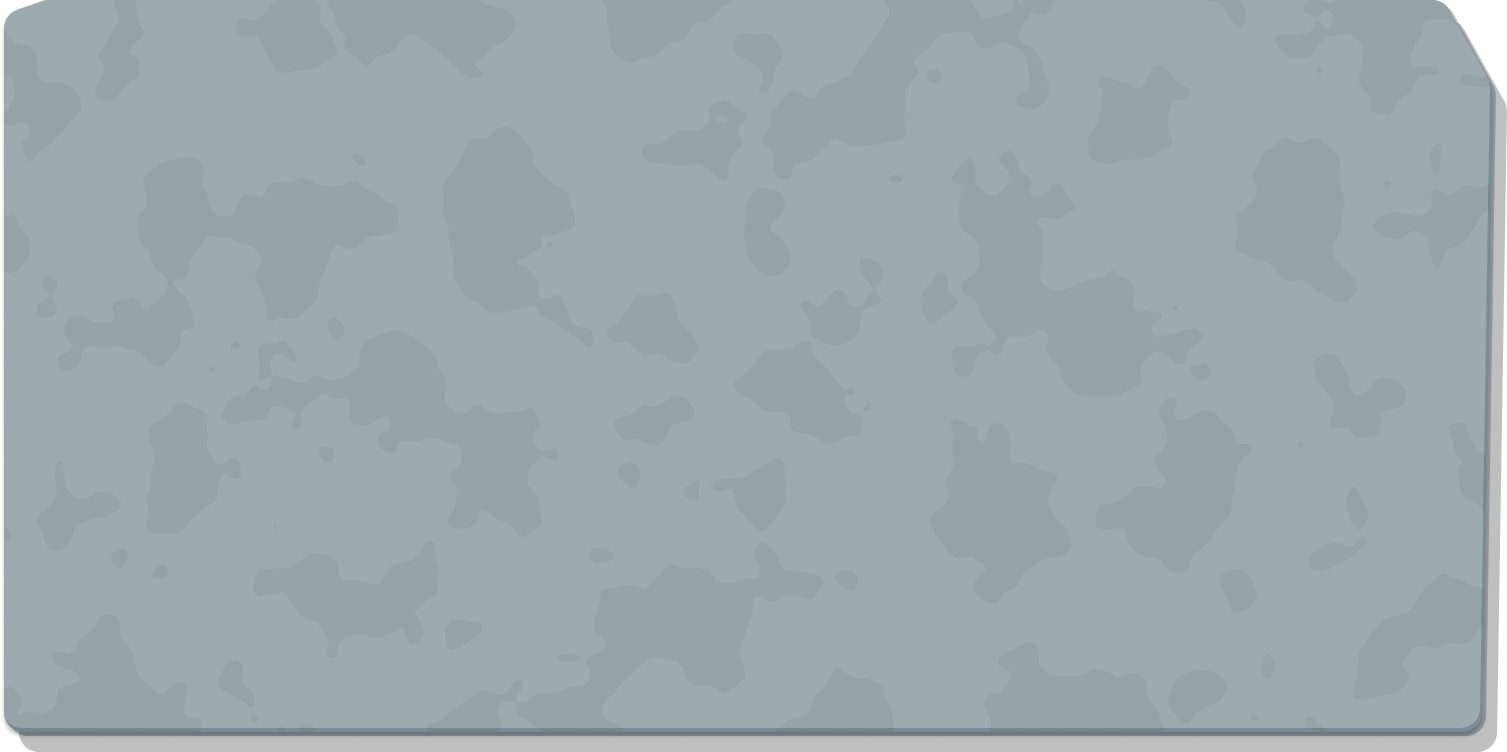
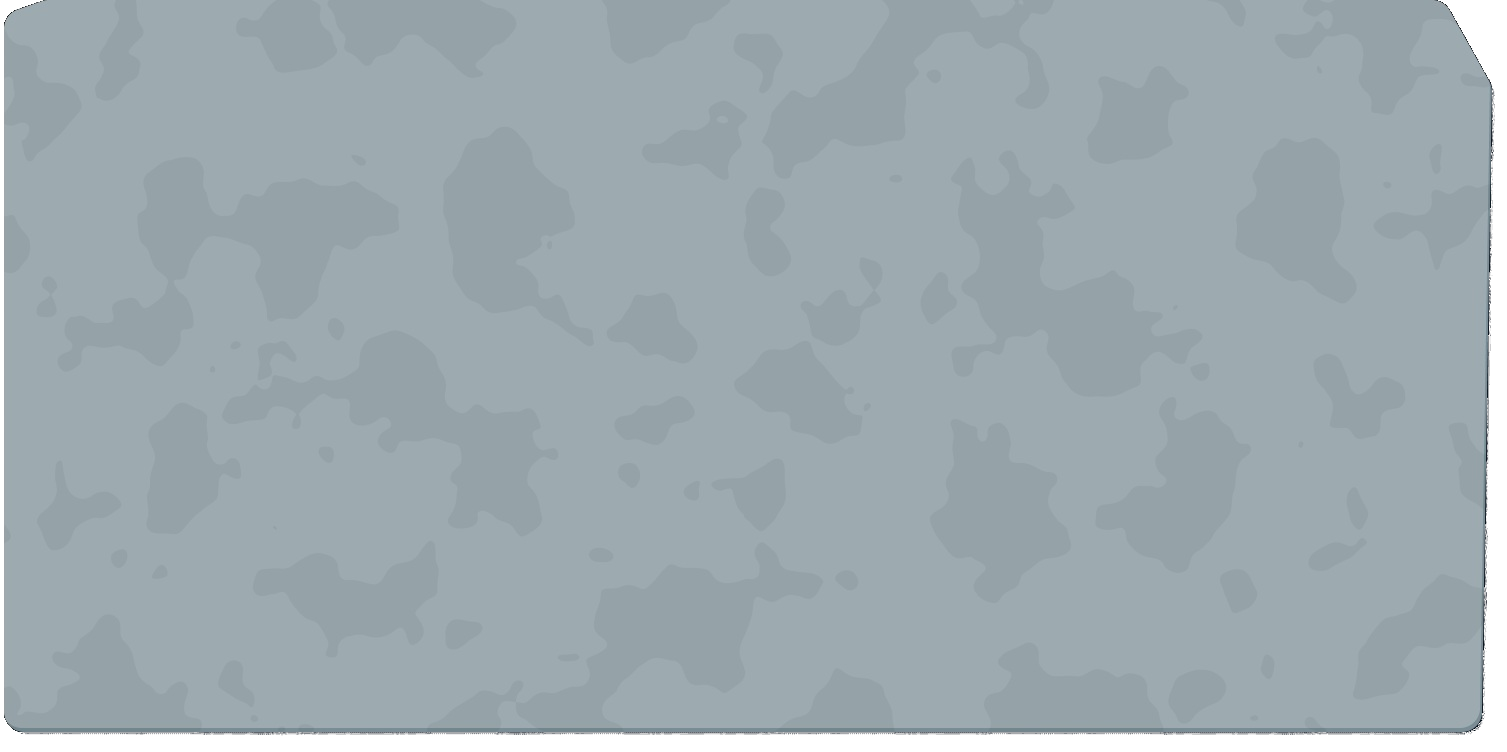
fix inventory max items and solid bg

Changed region(s): [[0.0, 0.0918, 1.0, 1.0]]

diff --git a/Assets/Scripts/Networking/InventoryNetworking/NetworkInventory.cs b/Assets/Scripts/Networking/InventoryNetworking/NetworkInventory.cs
@@ -8,7 +8,7 @@ public class NetworkInventory : NetworkBehaviour
     // IsDirty ya no es [Networked] — es local, se setea via RPC
     public bool IsDirty { get; set; }
 
-    [Networked, Capacity(9)]
+    [Networked, Capacity(12)]
     public NetworkLinkedList<InventorySlot> Items => default;
 
     public List<InventorySlot> LocalItems;
@@ -22,7 +22,7 @@ public class NetworkInventory : NetworkBehaviour
     {
         if (!Object.HasStateAuthority) return false;
 
-        if (Items.Count >= 9)
+        if (Items.Count >= 12)
         {
             Debug.Log("[SERVER] full inventory");
             return false;
@@ -38,7 +38,7 @@ public class NetworkInventory : NetworkBehaviour
         RPC_UpdateLocalInventory();
         RPC_NotifyInventoryChanged();
 
-        Debug.Log($"[SERVER] Item added ({Items.Count}/9)");
+        Debug.Log($"[SERVER] Item added ({Items.Count}/12)");
         BasicEventsManager.OnInventoryCountChanged?.Invoke(Items.Count);
         return true;
     }
